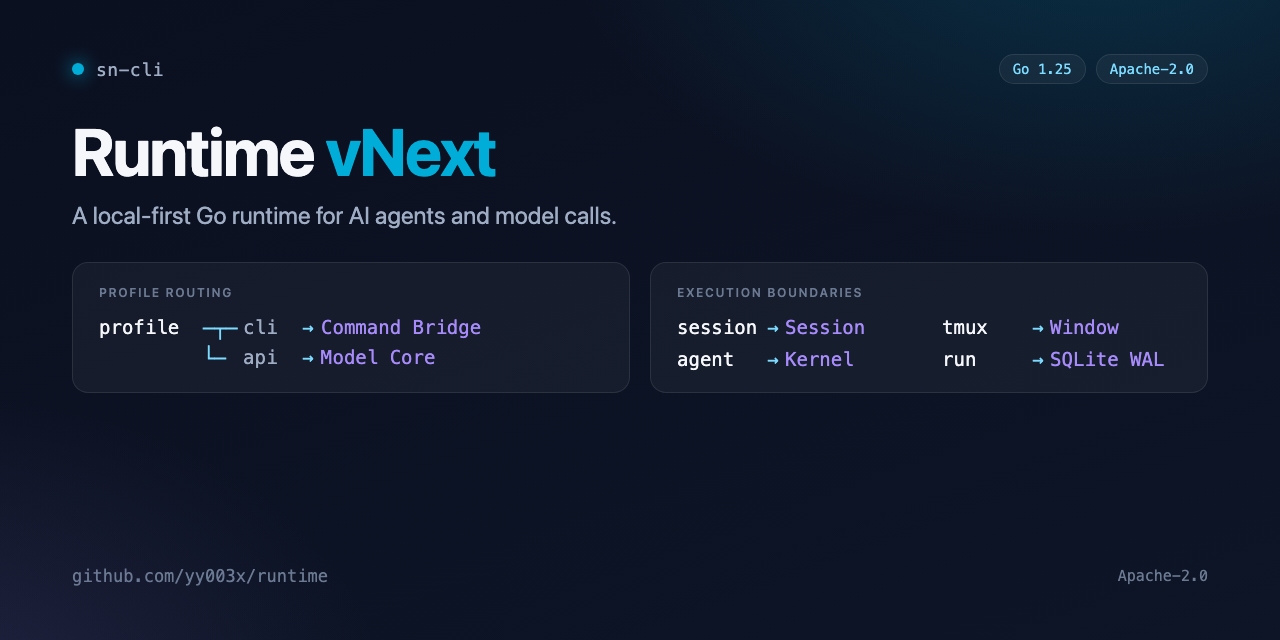
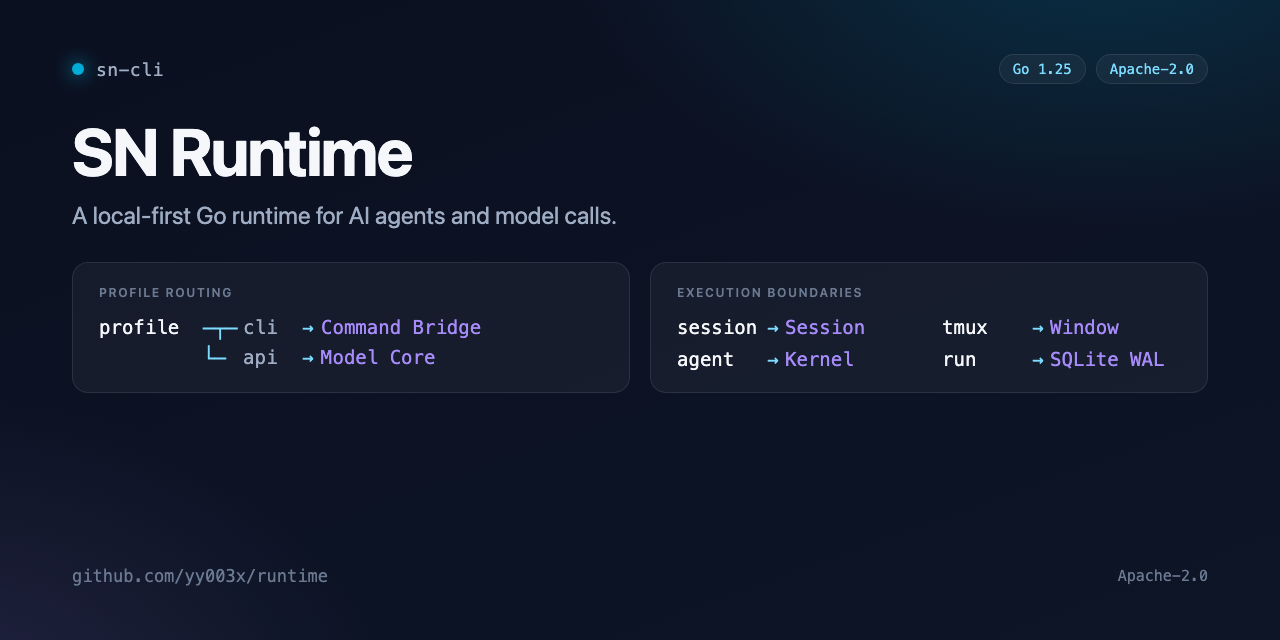
docs(runtime): 同步官方文档与资源资产
- 更新 AGENTS 与中英文 README、SN-CLI-USAGE、配置文档，反映统一后的命令与运行时契约说明。
- 将 runtime-vnext-contract 重命名为 runtime-contract，完成契约文档主名称对齐。
- 同步 social preview HTML 与 PNG 资产，匹配文档和入口说明的最终呈现。
- 统一文档中的路径与语义描述，避免与代码层重命名产生偏差。

Changed region(s): [[0.0625, 0.1875, 0.4062, 0.2812]]

diff --git a/docs/assets/social-preview.html b/docs/assets/social-preview.html
@@ -2,7 +2,7 @@
 <html lang="en">
 <head>
 <meta charset="utf-8">
-<title>Runtime vNext — social preview</title>
+<title>SN Runtime — social preview</title>
 <style>
   :root{
     --bg0:#0b1020; --bg1:#0d1526;
@@ -71,7 +71,7 @@
    </div>
 
    <div class="title">
-     <h1>Runtime <span class="v">vNext</span></h1>
+     <h1>SN Runtime</h1>
      <div class="tag">A local-first Go runtime for AI agents and model calls.</div>
    </div>
 

diff --git a/README.md b/README.md
@@ -1,4 +1,4 @@
-# Runtime vNext
+# SN Runtime
 
 [![CI](https://github.com/yy003x/runtime/actions/workflows/ci.yml/badge.svg)](https://github.com/yy003x/runtime/actions/workflows/ci.yml)
 [![Release](https://img.shields.io/github/v/release/yy003x/runtime?include_prereleases&display_name=release)](https://github.com/yy003x/runtime/releases)
@@ -14,7 +14,7 @@
 
 ## What it is
 
-Runtime vNext is a self-hosted execution layer for AI coding agents and model
+SN Runtime is a self-hosted execution layer for AI coding agents and model
 calls. Instead of bolting session state, retry, cancellation, and tool loops
 onto ad-hoc scripts, it gives you a small set of strict, composable entry
 points:
@@ -244,7 +244,7 @@ CLI, HTTP, and builtin tools are all adapters.
 | Document | Scope |
 |---|---|
 | [sn-cli reference](SN-CLI-USAGE.md) · 中文 | Full CLI command, argument, scenario, and example reference |
-| [Runtime vNext contract](docs/runtime-vnext-contract.md) | Top-level contracts and architecture |
+| [SN Runtime contract](docs/runtime-contract.md) | Top-level contracts and architecture |
 | [CLI routing contract](docs/cli-routing-contract.md) | Command routing and ID rules |
 | [Configuration contract](docs/configuration.md) | Profile / runtime config schema |
 | [Session & history contract](docs/session-history-contract.md) | Session state machine and crash recovery |

diff --git a/SN-CLI-USAGE.md b/SN-CLI-USAGE.md
@@ -1,6 +1,6 @@
 # sn-cli 详细使用手册
 
-本文是 Runtime vNext 公开 CLI 的详细用户手册，覆盖 `sn-cli` 当前实现的命令、
+本文是 SN Runtime 公开 CLI 的详细用户手册，覆盖 `sn-cli` 当前实现的命令、
 子命令、参数、输入输出、状态、典型场景和示例。
 
 每条命令的详细说明统一按「语法 / 作用 / 参数 / 示例 / 适用场景」组织；需要快速
@@ -3579,7 +3579,7 @@ sn-cli __sn_tmux_helper --manifest ABS_PATH
 
 ## 16. 相关契约文档
 
-- [Runtime vNext 总契约](docs/runtime-vnext-contract.md)
+- [SN Runtime 总契约](docs/runtime-contract.md)
 - [CLI 路由契约](docs/cli-routing-contract.md)
 - [配置契约](docs/configuration.md)
 - [Session 与 History 契约](docs/session-history-contract.md)

diff --git a/AGENTS.md b/AGENTS.md
@@ -2,7 +2,7 @@
 
 ## 项目定位
 
-本仓库是 Runtime vNext 公开 CLI、HTTP、canonical model contract、Session 和
+本仓库是 SN Runtime 公开 CLI、HTTP、canonical model contract、Session 和
 durable Run 的权威实现。Workbench 等调用方只能通过公开入口集成，不直接读写
 `${SN_CLI_HOME:-~/.sn}`。
 
@@ -67,7 +67,7 @@ barrier 时，同步：
 - 对应领域测试；
 - `sn-cli --help`；
 - `README.md`；
-- `docs/runtime-vnext-contract.md` 及相关专题契约；
+- `docs/runtime-contract.md` 及相关专题契约；
 - install/self-update/release payload（如影响交付物）。
 
 ## 验证

diff --git a/docs/runtime-contract.md b/docs/runtime-contract.md
@@ -1,4 +1,4 @@
-# Runtime vNext 契约
+# SN Runtime 契约
 
 本文是 Runtime 的当前总契约。代码、严格 loader、SQLite schema 和测试与本文冲突
 时，必须在同一次变更中消除差异。

diff --git a/docs/configuration.md b/docs/configuration.md
@@ -1,4 +1,4 @@
-# Runtime vNext 配置
+# SN Runtime 配置
 
 ## Source 与 active home
 
